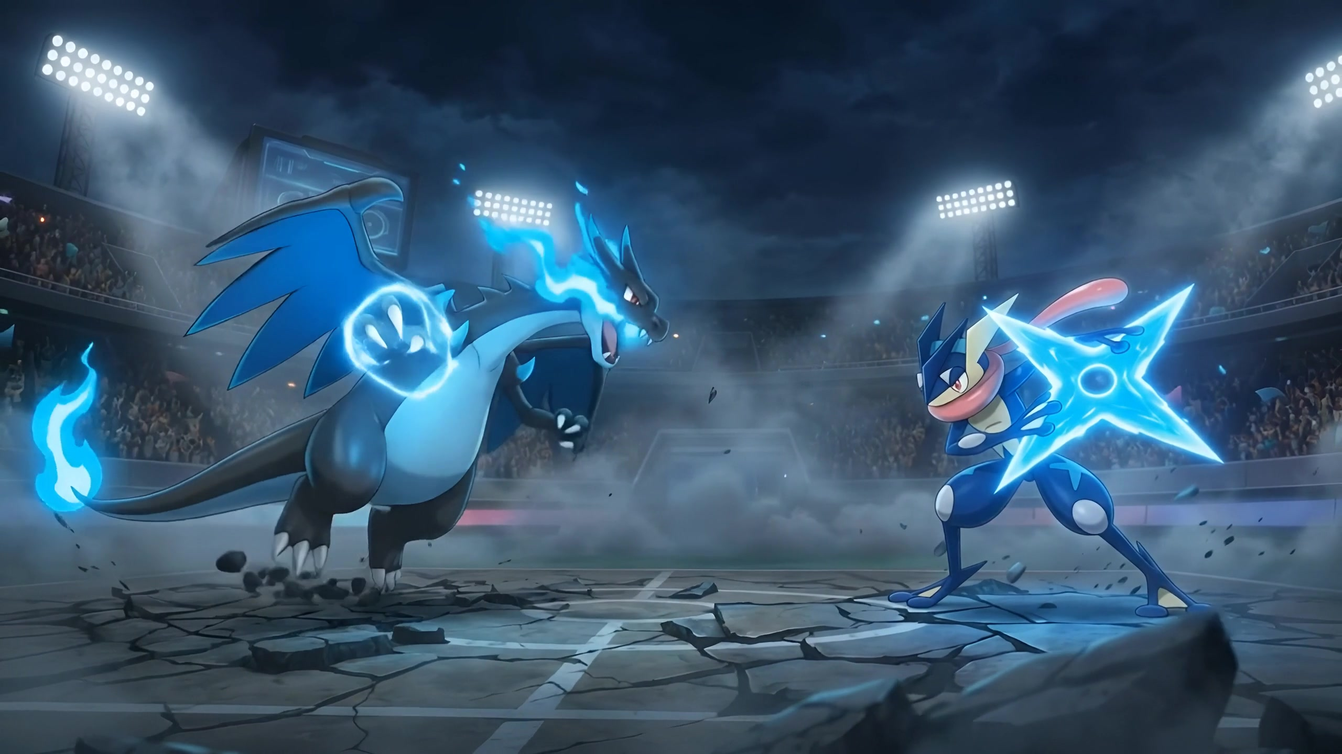
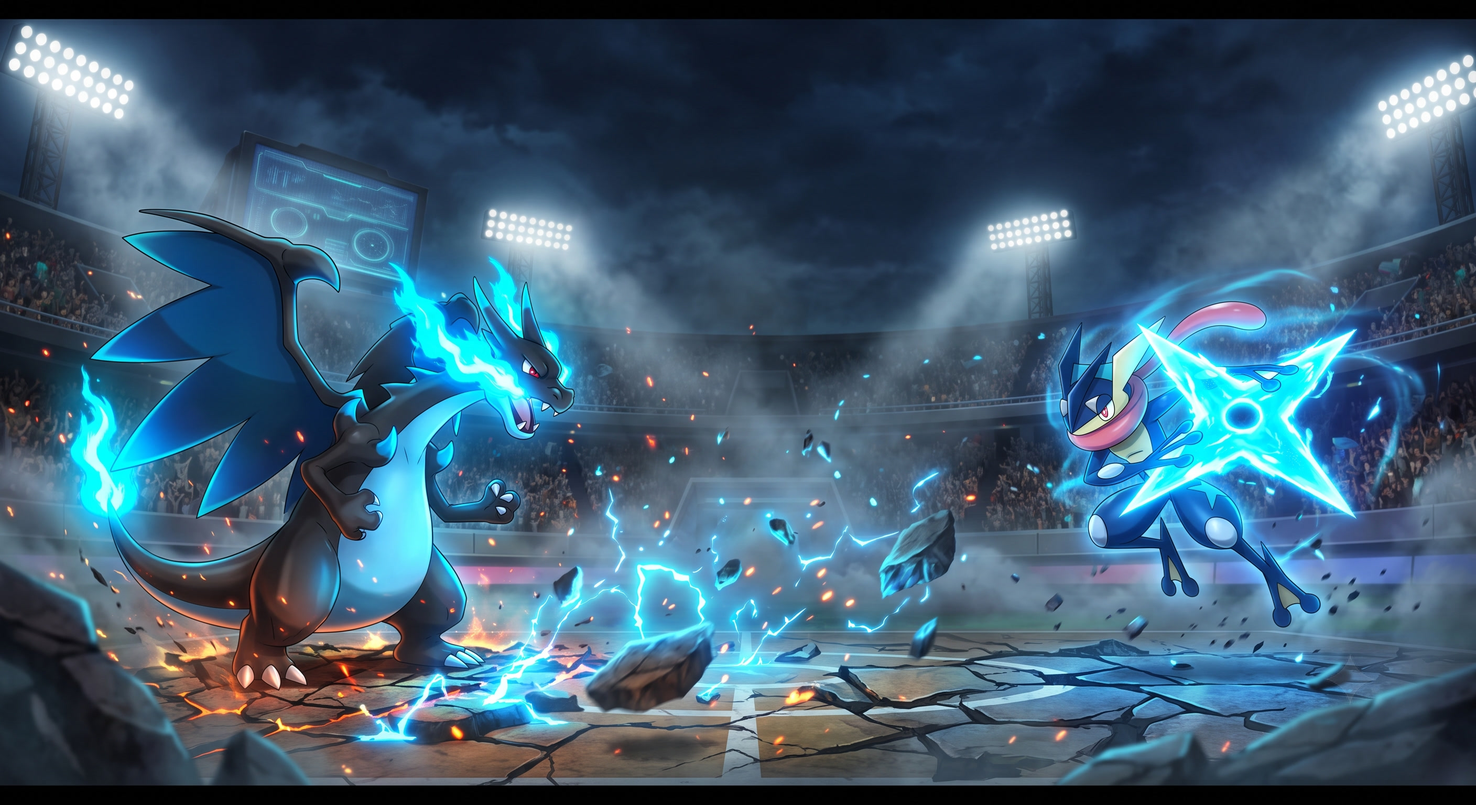
feat: replace scene 1 and scene 3 with user's enhanced images

diff --git a/src/components/CinematicScrollExperience.tsx b/src/components/CinematicScrollExperience.tsx
@@ -36,8 +36,8 @@ const SCENE_MEDIA = [
     id: 'scene1',
     src: '/videos/scene5.mp4',
     fallbackSrc: '/videos/Scene5.mp4',
-    imageSrc: '/images/scenes/scene1-frame.jpg',
-    alt: 'Mewtwo Cryo-Awakening Scene Frame',
+    imageSrc: '/images/scenes/scene1.png',
+    alt: 'Mewtwo Cryo-Awakening with Psychic Eye Flare',
   },
   {
     id: 'scene2',
@@ -50,8 +50,8 @@ const SCENE_MEDIA = [
     id: 'scene3',
     src: '/videos/Scene3.mp4',
     fallbackSrc: '/videos/scene3.mp4',
-    imageSrc: '/images/scenes/scene3-frame.jpg',
-    alt: 'Mega Charizard X vs Ash-Greninja Combat Showdown Scene Frame',
+    imageSrc: '/images/scenes/scene3.png',
+    alt: 'Mega Charizard X vs Ash-Greninja Stadium Showdown',
   },
 ];
 
@@ -250,7 +250,7 @@ export function CinematicScrollExperience({
       const img2 = new window.Image();
       img2.src = '/images/scenes/scene2-frame.jpg';
       const img3 = new window.Image();
-      img3.src = '/images/scenes/scene3-frame.jpg';
+      img3.src = '/images/scenes/scene3.png';
     }
   }, []);
 
